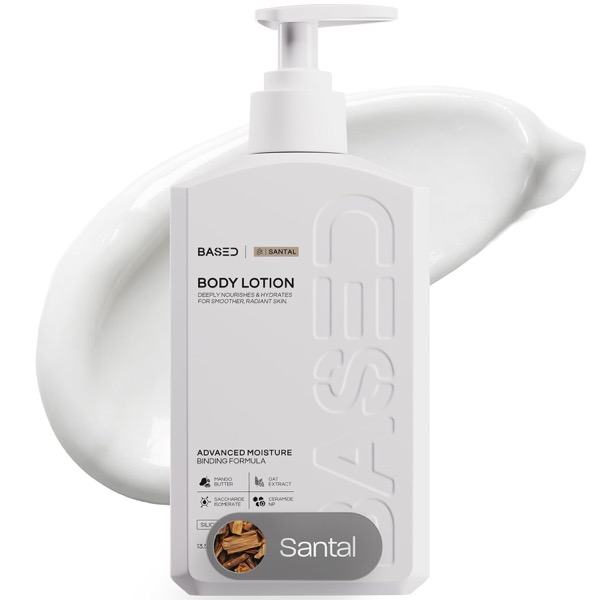
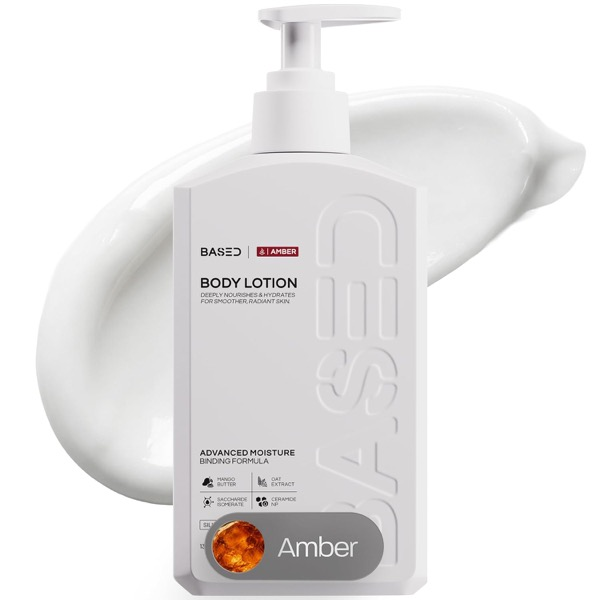
Add remaining BASED products, link Amber lotion listing

diff --git a/src/data/initialWishlist.js b/src/data/initialWishlist.js
@@ -30,13 +30,13 @@ export const DEFAULT_WISHLIST = [
   {
     id: "g_based_lotion",
     mustGet: "AMBER scent",
-    title: "BASED Body Lotion (Dusk & Dawn Ceramides Moisturizer)",
+    title: "BASED Body Lotion with Ceramides - Amber Scent",
     price: 25,
     category: "Everyday Essentials",
     closenessRequired: "casual",
     priority: "Must Have 🌟",
     imageUrl: "/products/lotion.jpg",
-    url: "https://www.amazon.com/BASED-Body-Lotion-Ceramides-Moisturizer/dp/B0GMSFN2PH/",
+    url: "https://www.amazon.com/dp/B0H6R9W7LX",
     description: "BASED Dusk & Dawn body lotion with ceramides. ⚠ PLEASE get the AMBER scent!",
     claimed: false,
     claimedBy: "",
@@ -152,6 +152,104 @@ export const DEFAULT_WISHLIST = [
     imageUrl: "/products/based_curlcream.jpg",
     url: "https://www.amazon.com/dp/B0DTXR6NSB",
     description: "BASED curl defining cream with agave, silk protein & castor oil. Medium hold, hydrates and nourishes.",
+    claimed: false,
+    claimedBy: "",
+    claimedNote: ""
+  },
+  {
+    id: "g_based_hair_elixir",
+    title: "BASED Hair Elixir (Weightless Shine Serum)",
+    price: 25,
+    category: "Everyday Essentials",
+    closenessRequired: "casual",
+    priority: "High Wish ❤",
+    imageUrl: "/products/based_hair_elixir.jpg",
+    url: "https://www.amazon.com/dp/B0G6GCFJ52",
+    description: "BASED weightless shine serum with heat protection. Controls frizz and flyaways.",
+    claimed: false,
+    claimedBy: "",
+    claimedNote: ""
+  },
+  {
+    id: "g_based_curl_refresh",
+    title: "BASED Curl Refresh Spray (6.8 fl oz)",
+    price: 18.99,
+    category: "Everyday Essentials",
+    closenessRequired: "casual",
+    priority: "High Wish ❤",
+    imageUrl: "/products/based_curl_refresh.jpg",
+    url: "https://www.amazon.com/dp/B0GF3Y4YS1",
+    description: "BASED lightweight hydrating spray to refresh and define curls between washes.",
+    claimed: false,
+    claimedBy: "",
+    claimedNote: ""
+  },
+  {
+    id: "g_based_leavein",
+    title: "BASED Leave-In Conditioner (9.3 fl oz)",
+    price: 18,
+    category: "Everyday Essentials",
+    closenessRequired: "casual",
+    priority: "High Wish ❤",
+    imageUrl: "/products/based_leavein.jpg",
+    url: "https://www.amazon.com/dp/B0DK293N2C",
+    description: "BASED leave-in conditioner for instant frizz control, hydrates and nourishes hair.",
+    claimed: false,
+    claimedBy: "",
+    claimedNote: ""
+  },
+  {
+    id: "g_based_undereye",
+    title: "BASED Under Eye Elixir (0.5 fl oz)",
+    price: 28,
+    category: "Everyday Essentials",
+    closenessRequired: "casual",
+    priority: "High Wish ❤",
+    imageUrl: "/products/based_undereye.jpg",
+    url: "https://www.amazon.com/dp/B0GNDF7K7T",
+    description: "BASED hydrating and refreshing under eye elixir.",
+    claimed: false,
+    claimedBy: "",
+    claimedNote: ""
+  },
+  {
+    id: "g_based_cleanser",
+    title: "BASED Daily Facial Cleanser",
+    price: 20,
+    category: "Everyday Essentials",
+    closenessRequired: "casual",
+    priority: "High Wish ❤",
+    imageUrl: "/products/based_cleanser.jpg",
+    url: "https://www.amazon.com/dp/B0FCJZ3P39",
+    description: "BASED deep-cleaning face wash with bamboo charcoal and willow bark.",
+    claimed: false,
+    claimedBy: "",
+    claimedNote: ""
+  },
+  {
+    id: "g_based_face_moisturizer",
+    title: "BASED Daily Facial Moisturizer",
+    price: 20,
+    category: "Everyday Essentials",
+    closenessRequired: "casual",
+    priority: "High Wish ❤",
+    imageUrl: "/products/based_face_moisturizer.jpg",
+    url: "https://www.amazon.com/dp/B0FCHFLGWP",
+    description: "BASED daily face moisturizer with squalane and rosehip oil to strengthen the skin barrier.",
+    claimed: false,
+    claimedBy: "",
+    claimedNote: ""
+  },
+  {
+    id: "g_based_deodorant",
+    title: "BASED Performance Deodorant - Santal Sandalwood",
+    price: 18,
+    category: "Everyday Essentials",
+    closenessRequired: "casual",
+    priority: "High Wish ❤",
+    imageUrl: "/products/based_deodorant.jpg",
+    url: "https://www.amazon.com/dp/B0DSZ2MF94",
+    description: "BASED aluminum-free deodorant with magnesium, beeswax and shea butter.",
     claimed: false,
     claimedBy: "",
     claimedNote: ""

diff --git a/src/App.jsx b/src/App.jsx
@@ -8,10 +8,10 @@ import Snowfall from './components/Snowfall';
 import { DEFAULT_WISHLIST } from './data/initialWishlist';
 import { Lock, KeyRound } from 'lucide-react';
 
-const WISHLIST_STORAGE_KEY = 'festive_gift_quiz_items_v13';
+const WISHLIST_STORAGE_KEY = 'festive_gift_quiz_items_v14';
 const OWNER_NAME_STORAGE_KEY = 'festive_gift_quiz_owner_v1';
 // Bump when DEFAULT_WISHLIST changes: merges new defaults into the shared list, keeping claims and admin-added items.
-const DATA_VERSION = 2;
+const DATA_VERSION = 3;
 const SYNC_URL = '/api/state';
 const POLL_MS = 15000;
 const ADMIN_PASSWORD = '01015';

diff --git a/HANDOFF.md b/HANDOFF.md
@@ -24,3 +24,6 @@ Caveats: no auth on PUT (guests must be able to claim); after first deploy, defa
 - New optional item field `mustGet` (lotion "AMBER scent", pedals "WHITE one", body wash "COCONUT scent"): src/components/ProductLink.jsx shows a "Please get ..." pop-up with Cancel / "Got it" (opens the Amazon link). Used in WishlistGallery and QuizResult; Admin form has a field for it.
 - DATA_VERSION in src/App.jsx: when DEFAULT_WISHLIST changes, bump it so the shared list merges the new defaults (keeps claims + admin-added items with ids like g_<digits>). Server function stores `version`.
 - Known issue (pre-existing): editing an item in Admin resets its claim status (AdminWishlist handleSaveItem hardcodes claimed:false).
+
+## Added all remaining BASED products (committed locally, NOT pushed)
+Hair Elixir 25, Curl Refresh Spray 18.99, Leave-In 18, Under Eye Elixir 28, Facial Cleanser 20, Facial Moisturizer 20, Deodorant 18 (Santal Sandalwood - scent is a guess; other listings: Bergamot Vanilla B0DSYV8LVQ, Guava Nectar B0DSYP494S). All prices verified on Amazon listings. Lotion now links the Amber listing (B0H6R9W7LX). User excluded: texture powder, sea salt spray, clay, pomade, shampoo, conditioner, skin revival spray (and bundles containing them). Tallow Moisturizer is sold out on brand site / not found on Amazon - skipped. DATA_VERSION 3, storage key v14.
